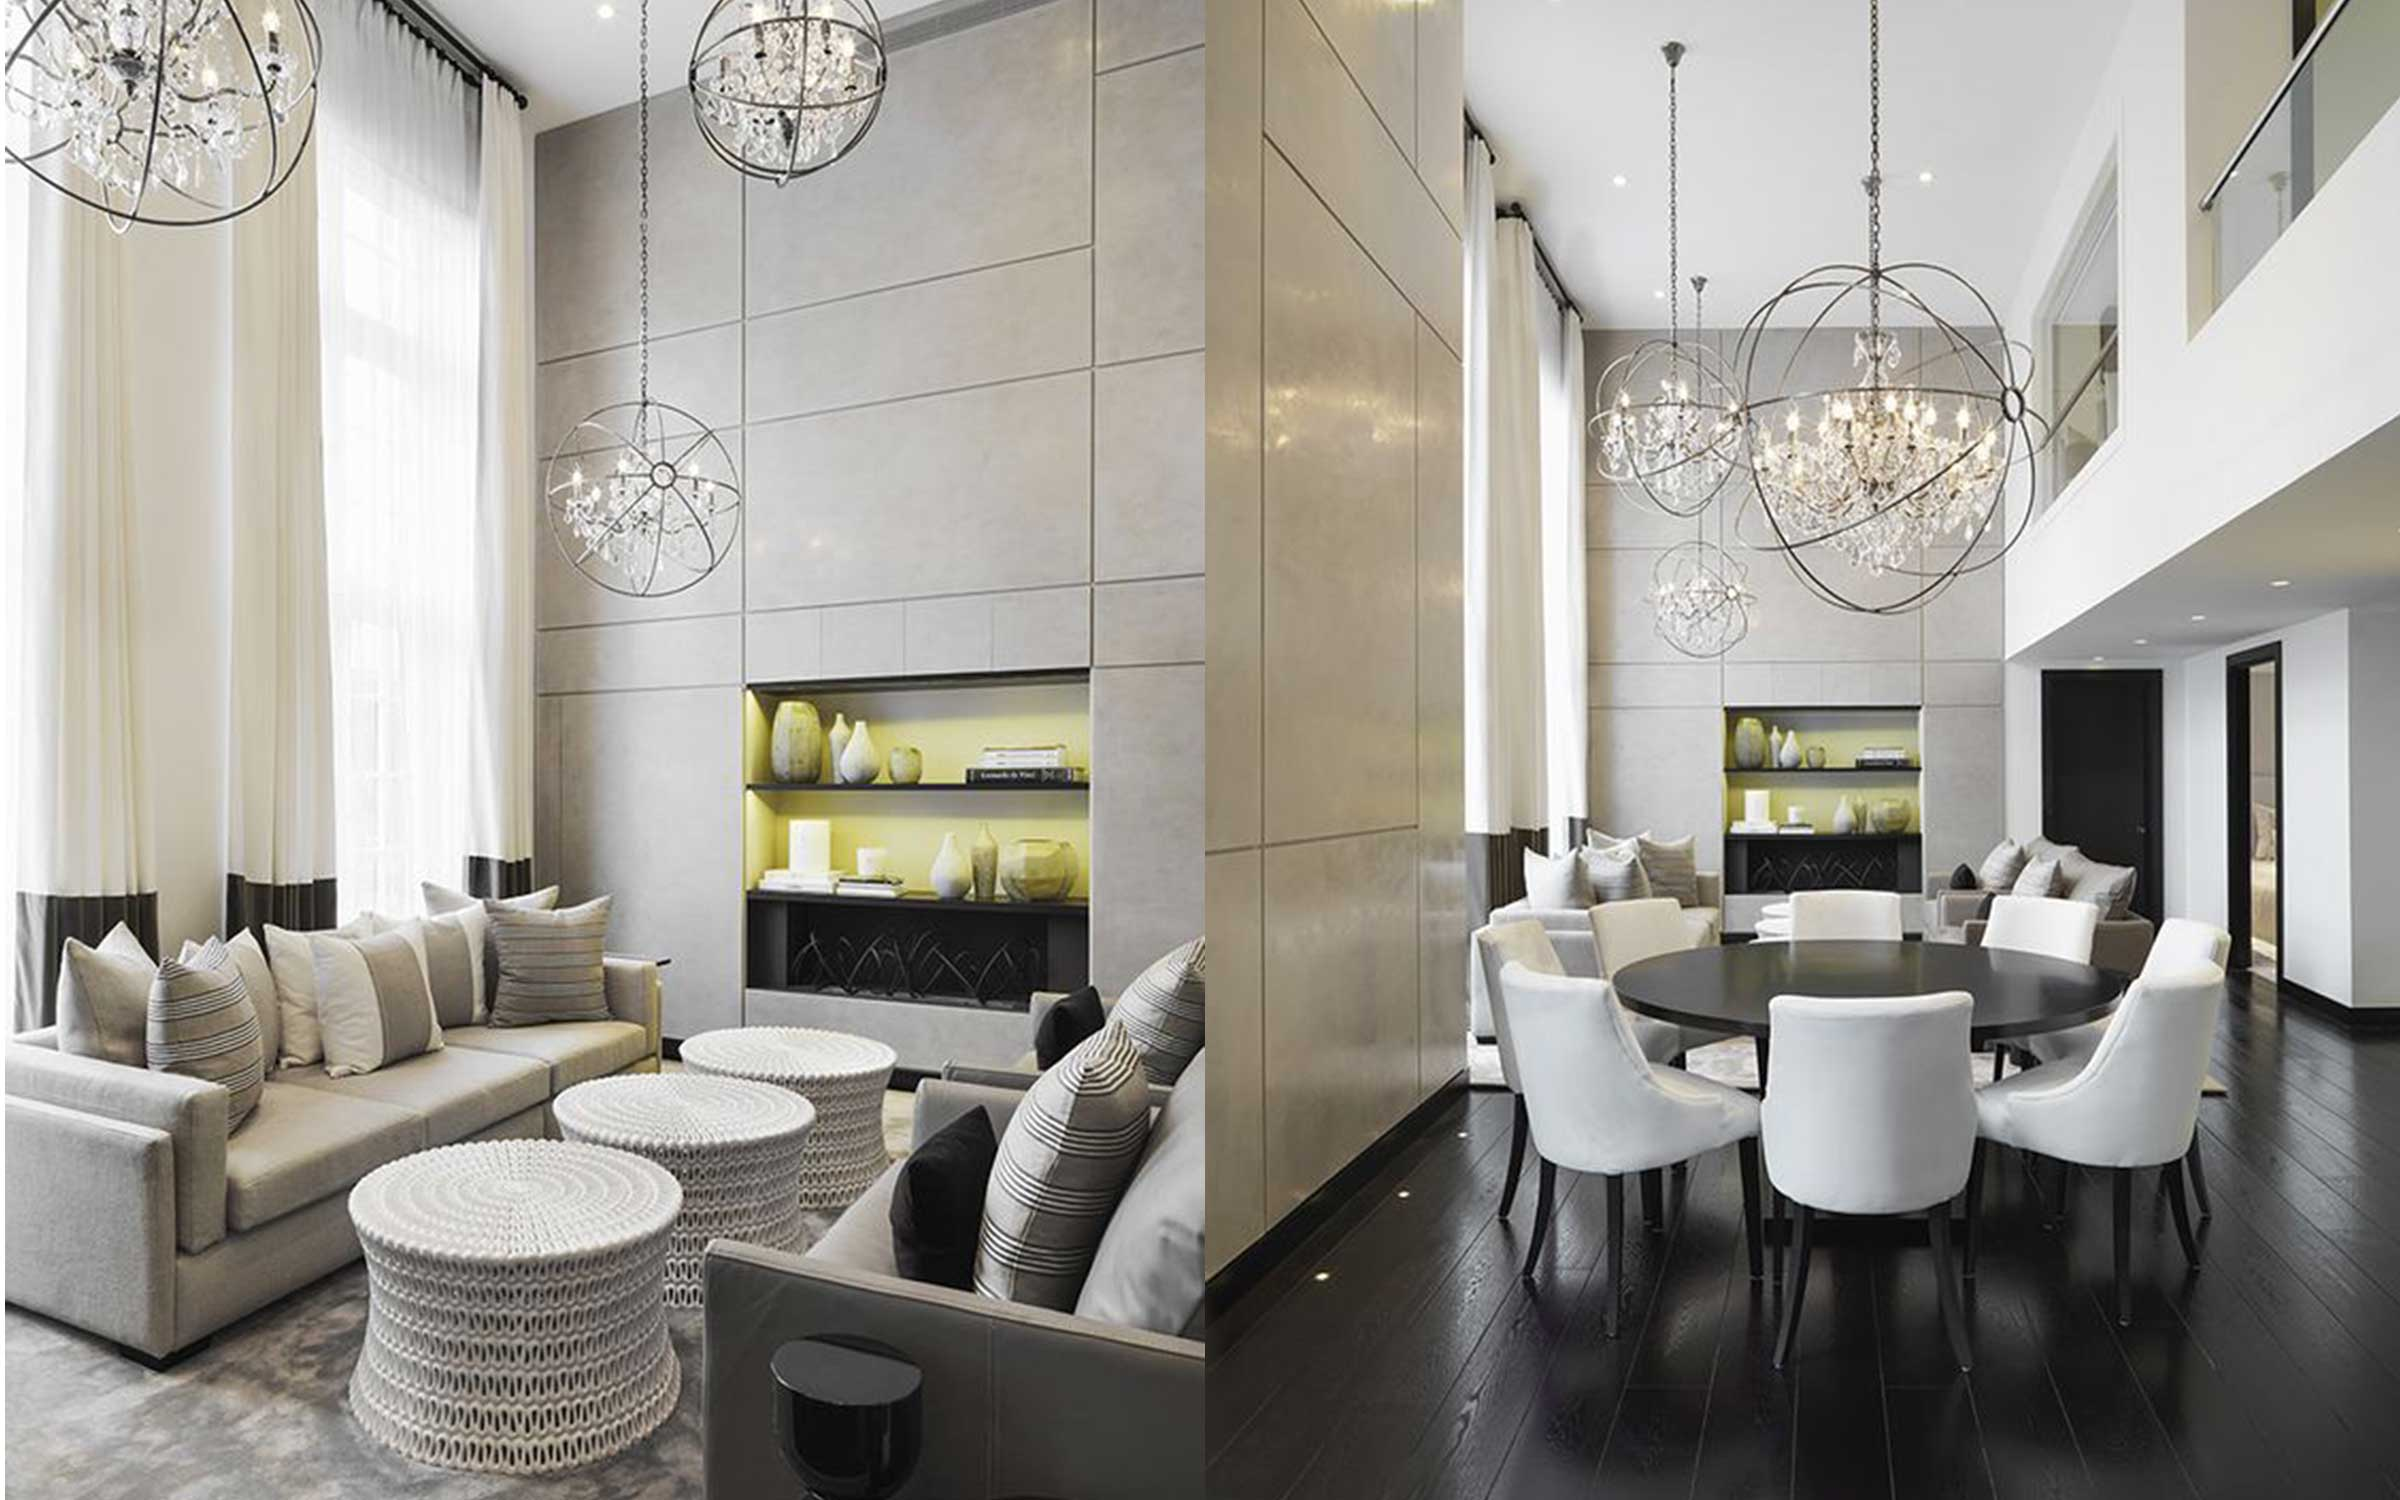
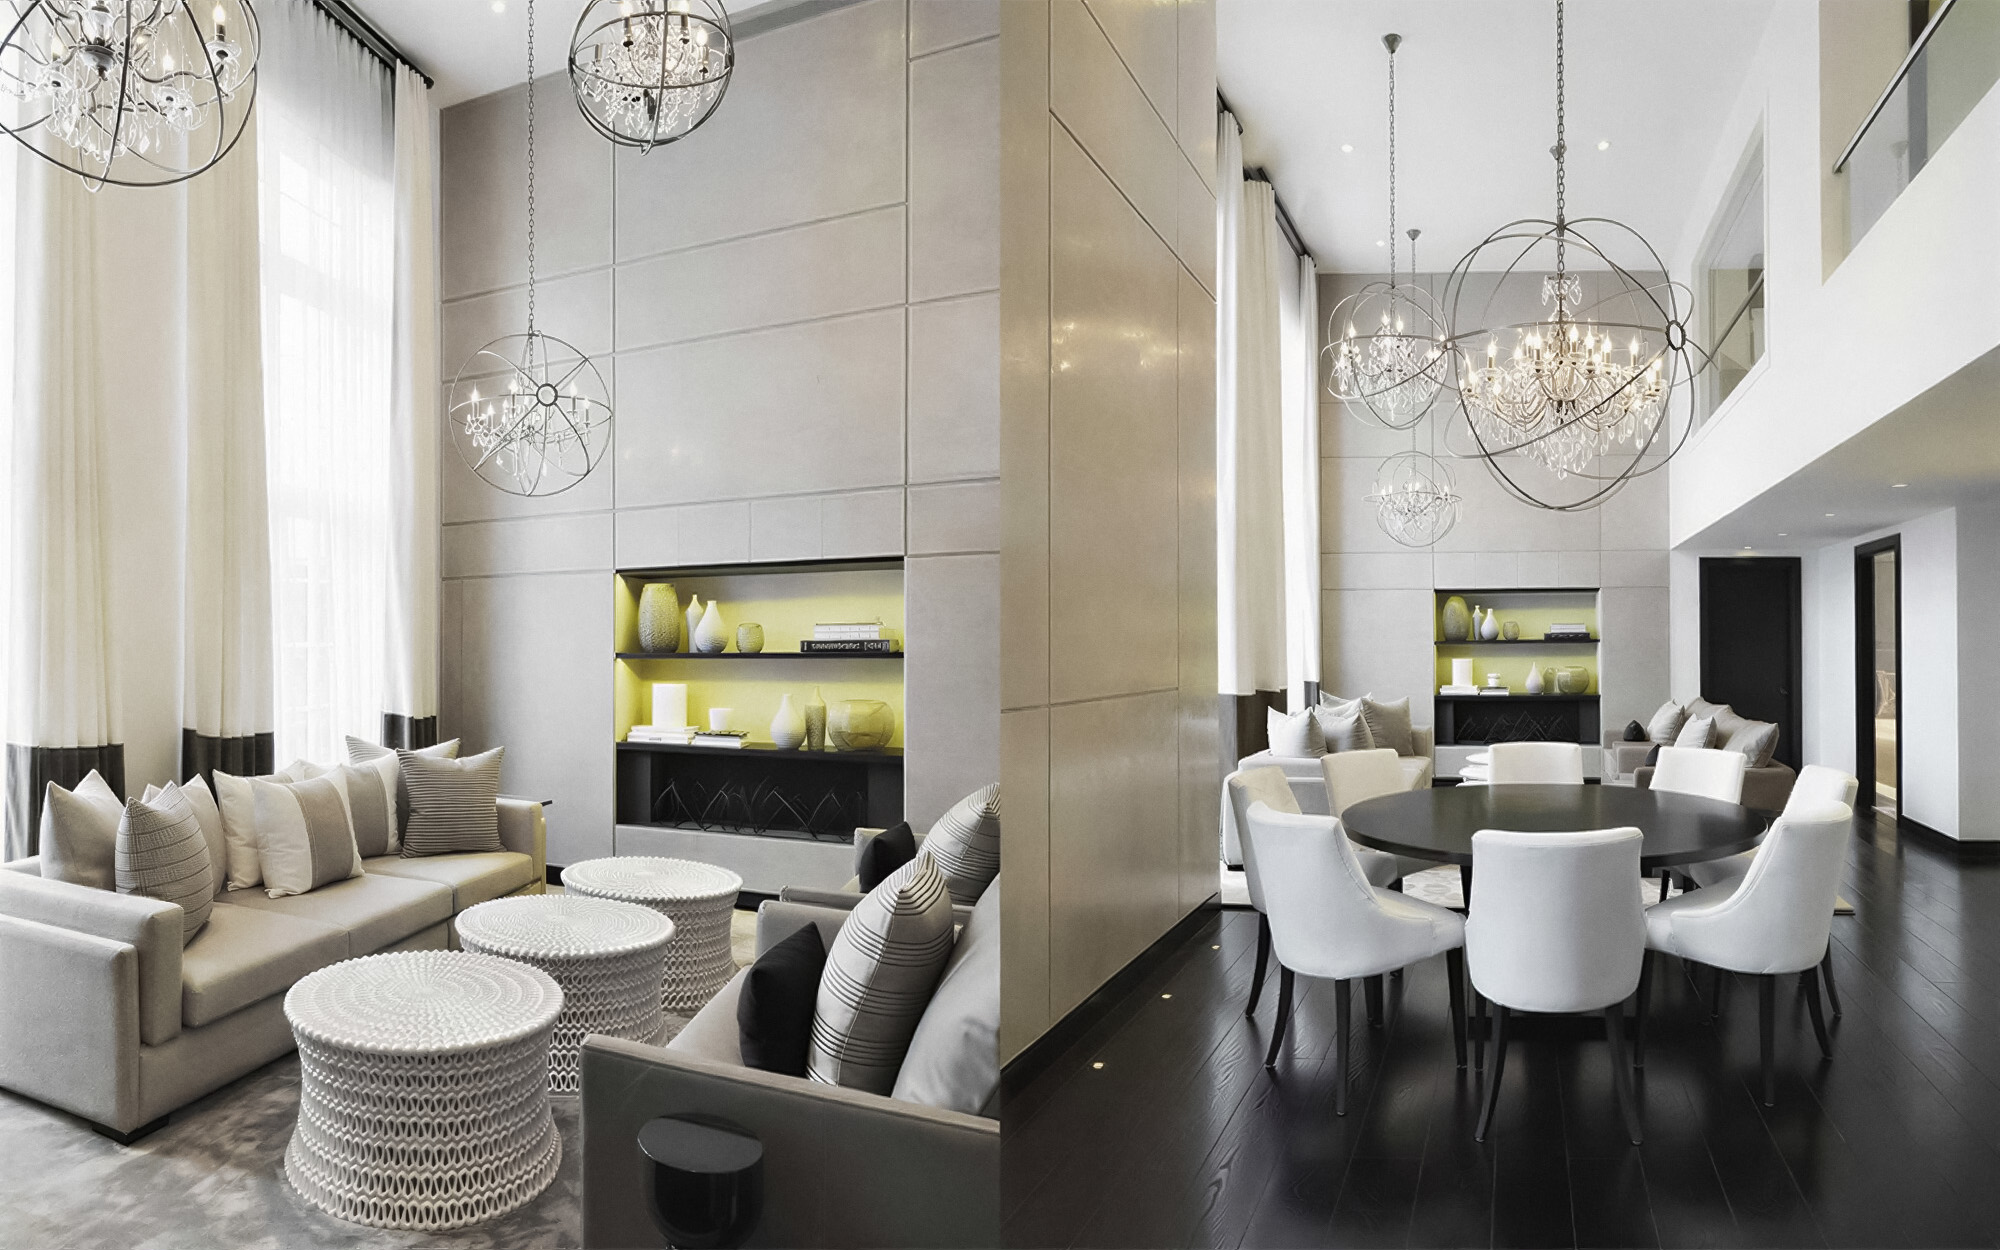
updates

diff --git a/app/projects/aventura-townhome/page.tsx b/app/projects/aventura-townhome/page.tsx
@@ -6,50 +6,74 @@ export default function AventuraProject() {
     {
       src: "/aventura/Sarvian-Design-Djamal-Residence_02B.jpg",
       alt: "Aventura interior 2B",
+      width: 1491,
+      height: 2000,
     },
     {
       src: "/aventura/Sarvian-Design-Djamal-Residence_03.jpg",
       alt: "Aventura interior 3",
+      width: 2000,
+      height: 1334,
     },
     {
       src: "/aventura/Sarvian-Design-Djamal-Residence_04.jpg",
       alt: "Aventura interior 4",
+      width: 2000,
+      height: 1334,
     },
     {
       src: "/aventura/Sarvian-Design-Djamal-Residence_06.jpg",
       alt: "Aventura interior 6",
+      width: 1334,
+      height: 2000,
     },
     {
       src: "/aventura/Sarvian-Design-Djamal-Residence_07.jpg",
       alt: "Aventura interior 7",
+      width: 1327,
+      height: 2000,
     },
     {
       src: "/aventura/Sarvian-Design-Djamal-Residence_09.jpg",
       alt: "Aventura interior 9",
+      width: 2000,
+      height: 1334,
     },
     {
       src: "/aventura/Sarvian-Design-Djamal-Residence_10.jpg",
       alt: "Aventura interior 10",
+      width: 2000,
+      height: 1334,
     },
     {
       src: "/aventura/Sarvian-Design-Djamal-Residence_13.jpg",
       alt: "Aventura interior 13",
+      width: 1334,
+      height: 2000,
     },
     {
       src: "/aventura/Sarvian-Design-Djamal-Residence_15.jpg",
       alt: "Aventura interior 15",
+      width: 2000,
+      height: 1334,
     },
     {
       src: "/aventura/Sarvian-Design-Djamal-Residence_17.jpg",
       alt: "Aventura interior 17",
+      width: 2000,
+      height: 1449,
     },
     {
       src: "/aventura/Sarvian-Design-Djamal-Residence_18-1.jpg",
       alt: "Aventura interior 18",
+      width: 2000,
+      height: 1382,
     },
     {
       src: "/aventura/Sarvian-Design-Djamal-Residence_20-1.jpg",
       alt: "Aventura interior 20",
+      width: 1334,
+      height: 2000,
     },
   ];
 

diff --git a/app/projects/the-shul/page.tsx b/app/projects/the-shul/page.tsx
@@ -1,0 +1,67 @@
+import MasonryGrid from "@/components/MasonryGrid";
+import ProjectPage from "@/components/ProjectPage";
+
+export default function TheShulProject() {
+  const images = [
+    {
+      src: "/the-shul/the-shul-bal-harbour-front.jpg",
+      alt: "The Shul Front View",
+      width: 2000,
+      height: 1250,
+    },
+    {
+      src: "/the-shul/the-shul-bal-harbour-02.jpg",
+      alt: "The Shul Side View",
+      width: 2000,
+      height: 1250,
+    },
+    {
+      src: "/the-shul/the-shul-bal-harbour-03.jpg",
+      alt: "The Shul Side Entrance View",
+      width: 2000,
+      height: 1250,
+    },
+    {
+      src: "/the-shul/the-shul-bal-harbour-04.jpg",
+      alt: "The Shul Back View",
+      width: 2000,
+      height: 1250,
+    },
+    {
+      src: "/the-shul/the-shul-bal-harbour-05.jpg",
+      alt: "The Shul Podium View",
+      width: 1500,
+      height: 2000,
+    },
+    {
+      src: "/the-shul/the-shul-bal-harbour-06.jpg",
+      alt: "The Shul Ark View",
+      width: 1500,
+      height: 2000,
+    },
+    {
+      src: "/the-shul/the-shul-bal-harbour-07.jpg",
+      alt: "The Shul Detail View",
+      width: 2000,
+      height: 1250,
+    },
+    {
+      src: "/the-shul/the-shul-bal-harbour-09.jpg",
+      alt: "The Shul Wood Detail View",
+      width: 1500,
+      height: 2000,
+    },
+    {
+      src: "/the-shul/the-shul-bal-harbour-08.jpg",
+      alt: "The Shul Window View",
+      width: 2000,
+      height: 1250,
+    },
+  ];
+
+  return (
+    <ProjectPage title="The Shul - Bal Harbour">
+      <MasonryGrid images={images} />
+    </ProjectPage>
+  );
+}

diff --git a/app/projects/page.tsx b/app/projects/page.tsx
@@ -2,19 +2,9 @@ import ProjectCard from "../../components/ProjectCard";
 
 const projects = [
   {
-    title: "Brickell Residence",
-    image: "/slider/Brickell-main-new.jpg",
-    href: "/projects/brickell",
-  },
-  {
-    title: "North Miami Villa",
-    image: "/slider/North-Miami-main.jpg",
-    href: "/projects/north-miami",
-  },
-  {
-    title: "Oak Park Estate",
-    image: "/slider/Oak-Park-main.jpg",
-    href: "/projects/oak-park",
+    title: "The Shul",
+    image: "/slider/the-shul-bal-harbour-01.jpg",
+    href: "/projects/the-shul",
   },
   {
     title: "Aventura Townhome",
@@ -27,6 +17,16 @@ const projects = [
     href: "/projects/south-beach",
   },
   {
+    title: "Brickell Residence",
+    image: "/slider/Brickell-main-new.jpg",
+    href: "/projects/brickell",
+  },
+  {
+    title: "North Miami Villa",
+    image: "/slider/North-Miami-main.jpg",
+    href: "/projects/north-miami",
+  },
+  {
     title: "Old River Estate",
     image: "/slider/old-river-back.jpg",
     href: "/projects/old-river",
@@ -35,7 +35,7 @@ const projects = [
 
 export default function Projects() {
   return (
-    <div className="flex flex-col bg-white">
+    <div className="flex flex-col bg-white px-10">
       <main className="w-full">
         {/* Page Header */}
         <div className="py-10 md:py-20 px-6 text-center border-b border-zinc-100">

diff --git a/components/MasonryGrid.tsx b/components/MasonryGrid.tsx
@@ -7,13 +7,15 @@ interface MasonryGridProps {
   images: {
     src: string;
     alt: string;
+    width?: number;
+    height?: number;
     aspectRatio?: string; // e.g., "4/5", "16/9"
   }[];
 }
 
 export default function MasonryGrid({ images }: MasonryGridProps) {
   return (
-    <div className="columns-1 sm:columns-2 gap-8 space-y-8 p-6 md:p-12">
+    <div className="columns-1 lg:columns-2 gap-8 space-y-8 p-6 md:p-12">
       {images.map((image, index) => (
         <motion.div
           key={image.src + index}
@@ -23,11 +25,13 @@ export default function MasonryGrid({ images }: MasonryGridProps) {
           transition={{ duration: 0.6, delay: index * 0.1 }}
           className="break-inside-avoid relative group overflow-hidden">
           <div className="relative w-full">
-            <img
+            <Image
               src={image.src}
               alt={image.alt}
               className="w-full h-auto"
               loading="lazy"
+              width={image.width || 2000}
+              height={image.height || 1250}
             />
           </div>
         </motion.div>

diff --git a/app/projects/old-river/page.tsx b/app/projects/old-river/page.tsx
@@ -3,10 +3,30 @@ import ProjectPage from "@/components/ProjectPage";
 
 export default function OldRiverProject() {
   const images = [
-    { src: "/old-river/old-river-back.jpg", alt: "Old River Background" },
-    { src: "/old-river/old-river-front.jpg", alt: "Old River Front" },
-    { src: "/old-river/old-river-front2.jpg", alt: "Old River Front 2" },
-    { src: "/old-river/old-river-pool.jpg", alt: "Old River Pool" },
+    {
+      src: "/old-river/old-river-back.jpg",
+      alt: "Old River Back View",
+      width: 2000,
+      height: 1261,
+    },
+    {
+      src: "/old-river/old-river-front.jpg",
+      alt: "Old River Front",
+      width: 2000,
+      height: 1230,
+    },
+    {
+      src: "/old-river/old-river-front2.jpg",
+      alt: "Old River Front 2",
+      width: 1600,
+      height: 1200,
+    },
+    {
+      src: "/old-river/old-river-pool.jpg",
+      alt: "Old River Pool",
+      width: 1600,
+      height: 1154,
+    },
   ];
 
   return (

diff --git a/app/projects/south-beach/page.tsx b/app/projects/south-beach/page.tsx
@@ -6,18 +6,26 @@ export default function SouthBeachProject() {
     {
       src: "/south-beach/South-Beach-Living-Kitchen.jpg",
       alt: "South Beach Living & Kitchen",
+      width: 1600,
+      height: 888,
     },
     {
       src: "/south-beach/South-Beach-Bedroom.jpg",
       alt: "South Beach Bedroom",
+      width: 1600,
+      height: 888,
     },
     {
       src: "/south-beach/South-Beach-Living.jpg",
       alt: "South Beach Living Room",
+      width: 1600,
+      height: 888,
     },
     {
       src: "/south-beach/South-Beach-Living2.jpg",
       alt: "South Beach Living Room 2",
+      width: 1600,
+      height: 888,
     },
   ];
 

diff --git a/app/publications/page.tsx b/app/publications/page.tsx
@@ -46,7 +46,7 @@ export default function Publications() {
   };
 
   return (
-    <div className="flex min-h-screen flex-col items-center max-w-5xl mx-auto">
+    <div className="flex min-h-screen flex-col items-center max-w-6xl mx-auto">
       <main className="flex w-full flex-col items-center justify-center px-6">
         <h1 className="text-4xl font-light tracking-widest uppercase py-20">
           Publications
